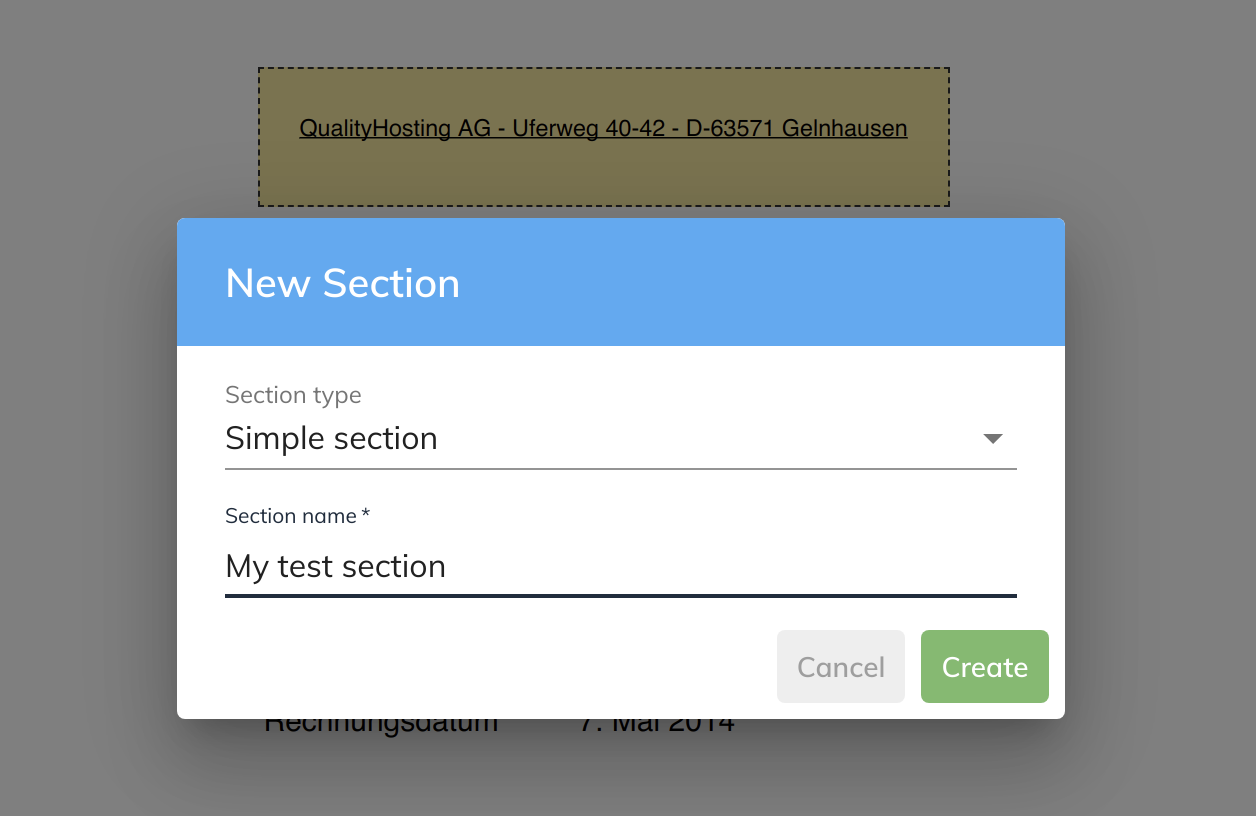
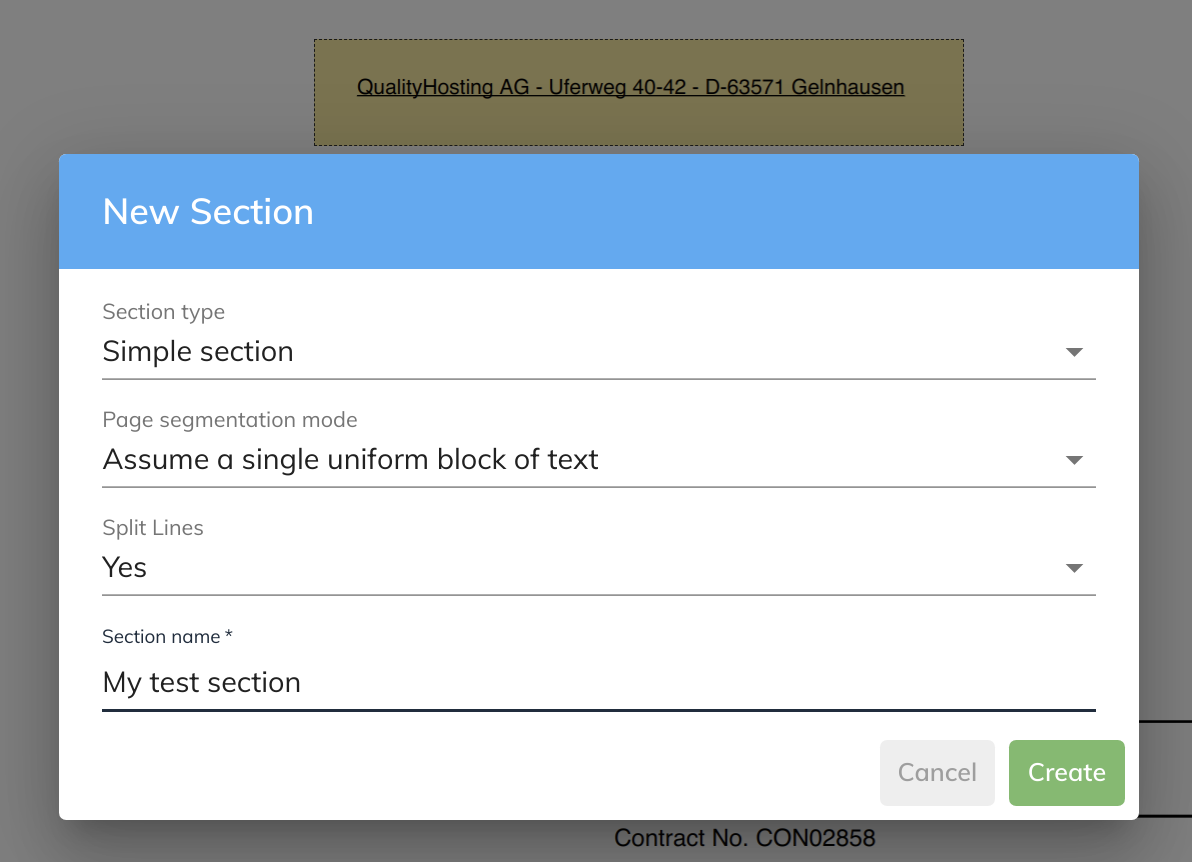
Update OCR information

diff --git a/docs/user-guide/services/document-ocr.md b/docs/user-guide/services/document-ocr.md
@@ -13,9 +13,33 @@ The Document OCR (Optical Character Recognition) service allows you to read text
 
 !!! warning "Important"
 
-    The Document OCR service will sometimes pick up outliers and other noise/graphics as text or have difficulty reading some text depending on the font. Changing the sections and implementing functions can help to eliminate this issue. Always test with multiple documents prior to implementing in a production environment to ensure that the proper functions have been used to get the required result.
+    The Document OCR service will sometimes pick up outliers and other noise/graphics as text or have difficulty reading some text depending on the font. Changing the sections or page segmentation mode and implementing functions can help to eliminate this issue. Always test with multiple documents prior to implementing in a production environment to ensure that the proper functions have been used to get the required result.
+
+___
+### Page Segmentation Mode
+
+The page segmentation mode (PSM) will enhance the accuracy of the text by choosing a the mode for the type of text that the OCR will expect in your section.  You will be able to select the mode on each simple or table section.
+
+| Mode | Description |
+| ----------- | ----------- |
+| 0 | Orientation and script detection (OSD) only. |
+| 1 | Automatic page segmentation with OSD. |
+| 2 | Automatic page segmentation, but no OSD, or OCR. |
+| 3 | Fully automatic page segmentation, but no OSD. |
+| 4 | Assume a single column of text of variable sizes. |
+| 5 | Assume a single uniform block of vertically aligned text. |
+| 6 | Assume a single uniform block of text. |
+| 7 | Treat the image as a single text line. |
+| 8 | Treat the image as a single word. |
+| 9 | Treat the image as a single word in a circle. |
+| 10 | Treat the image as a single character. |
+| 11 | Sparse text. Find as much text as possible in no particular order. |
+| 12 | Sparse text with OSD. |
+| 13 | Raw line. |
+
 
 The following example configuration shows you how to configure the Document OCR service to read a field and a table in a PDF and create an output that could be used for other services.
+
 ___
 ### Input Data Configuration
 
